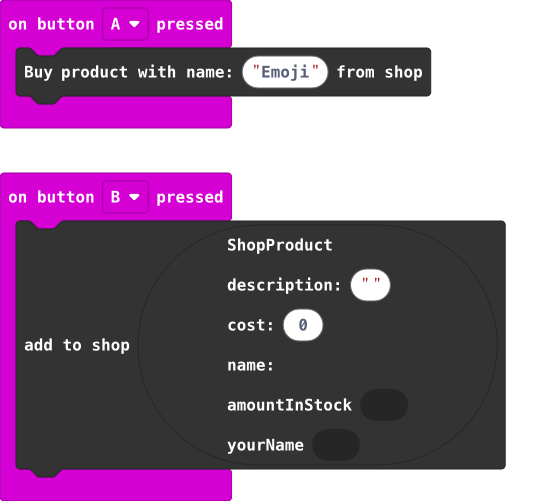
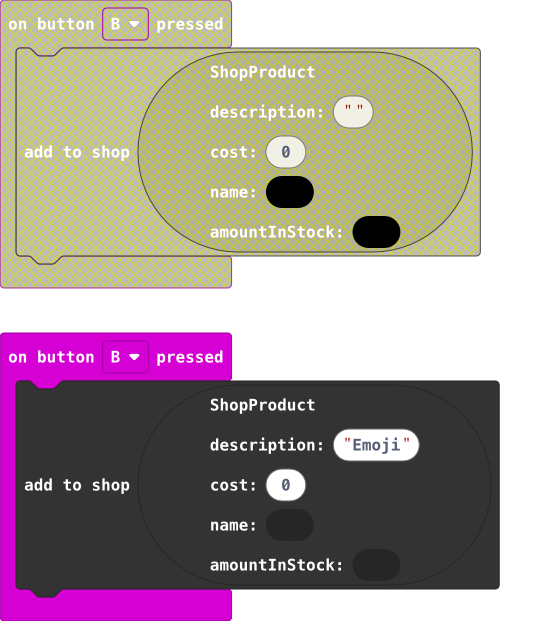
Update main.blocks, Interface.ts, main.ts

diff --git a/Interface.ts b/Interface.ts
@@ -40,9 +40,8 @@ export interface cars {
 declare interface shop{
 money: number;
 product:{
-description: string;
-cost: number;
 name: string;
+cost: number;
 amountInStock: number
 }
 
@@ -52,9 +51,9 @@ amountInStock: number
 
 
 }
-//% blockId= ShopProduct block="ShopProduct |description: %string|cost: %number|name: %string|amountInStock: %number|"
-export function ShopProduct(b: string, c: number, d: string, e: number): shop["product"]{
-return {description: b, cost: c, name: d, amountInStock: e}
+//% blockId= ShopProduct block="ShopProduct |name: %string|cost: %number|amountInStock: %number|"
+export function ShopProduct(b: string, c: number, e: number): shop["product"]{
+return {name: b, cost: c, amountInStock: e}
 
 
 

diff --git a/main.ts b/main.ts
@@ -3,7 +3,7 @@ input.onButtonPressed(Button.A, function () {
 })
 input.onButtonPressed(Button.B, function () {
     interfaces.addToShop(interfaces.ShopProduct(
-    "",
+    "Emoji",
     0,
     "Emoji",
     0
